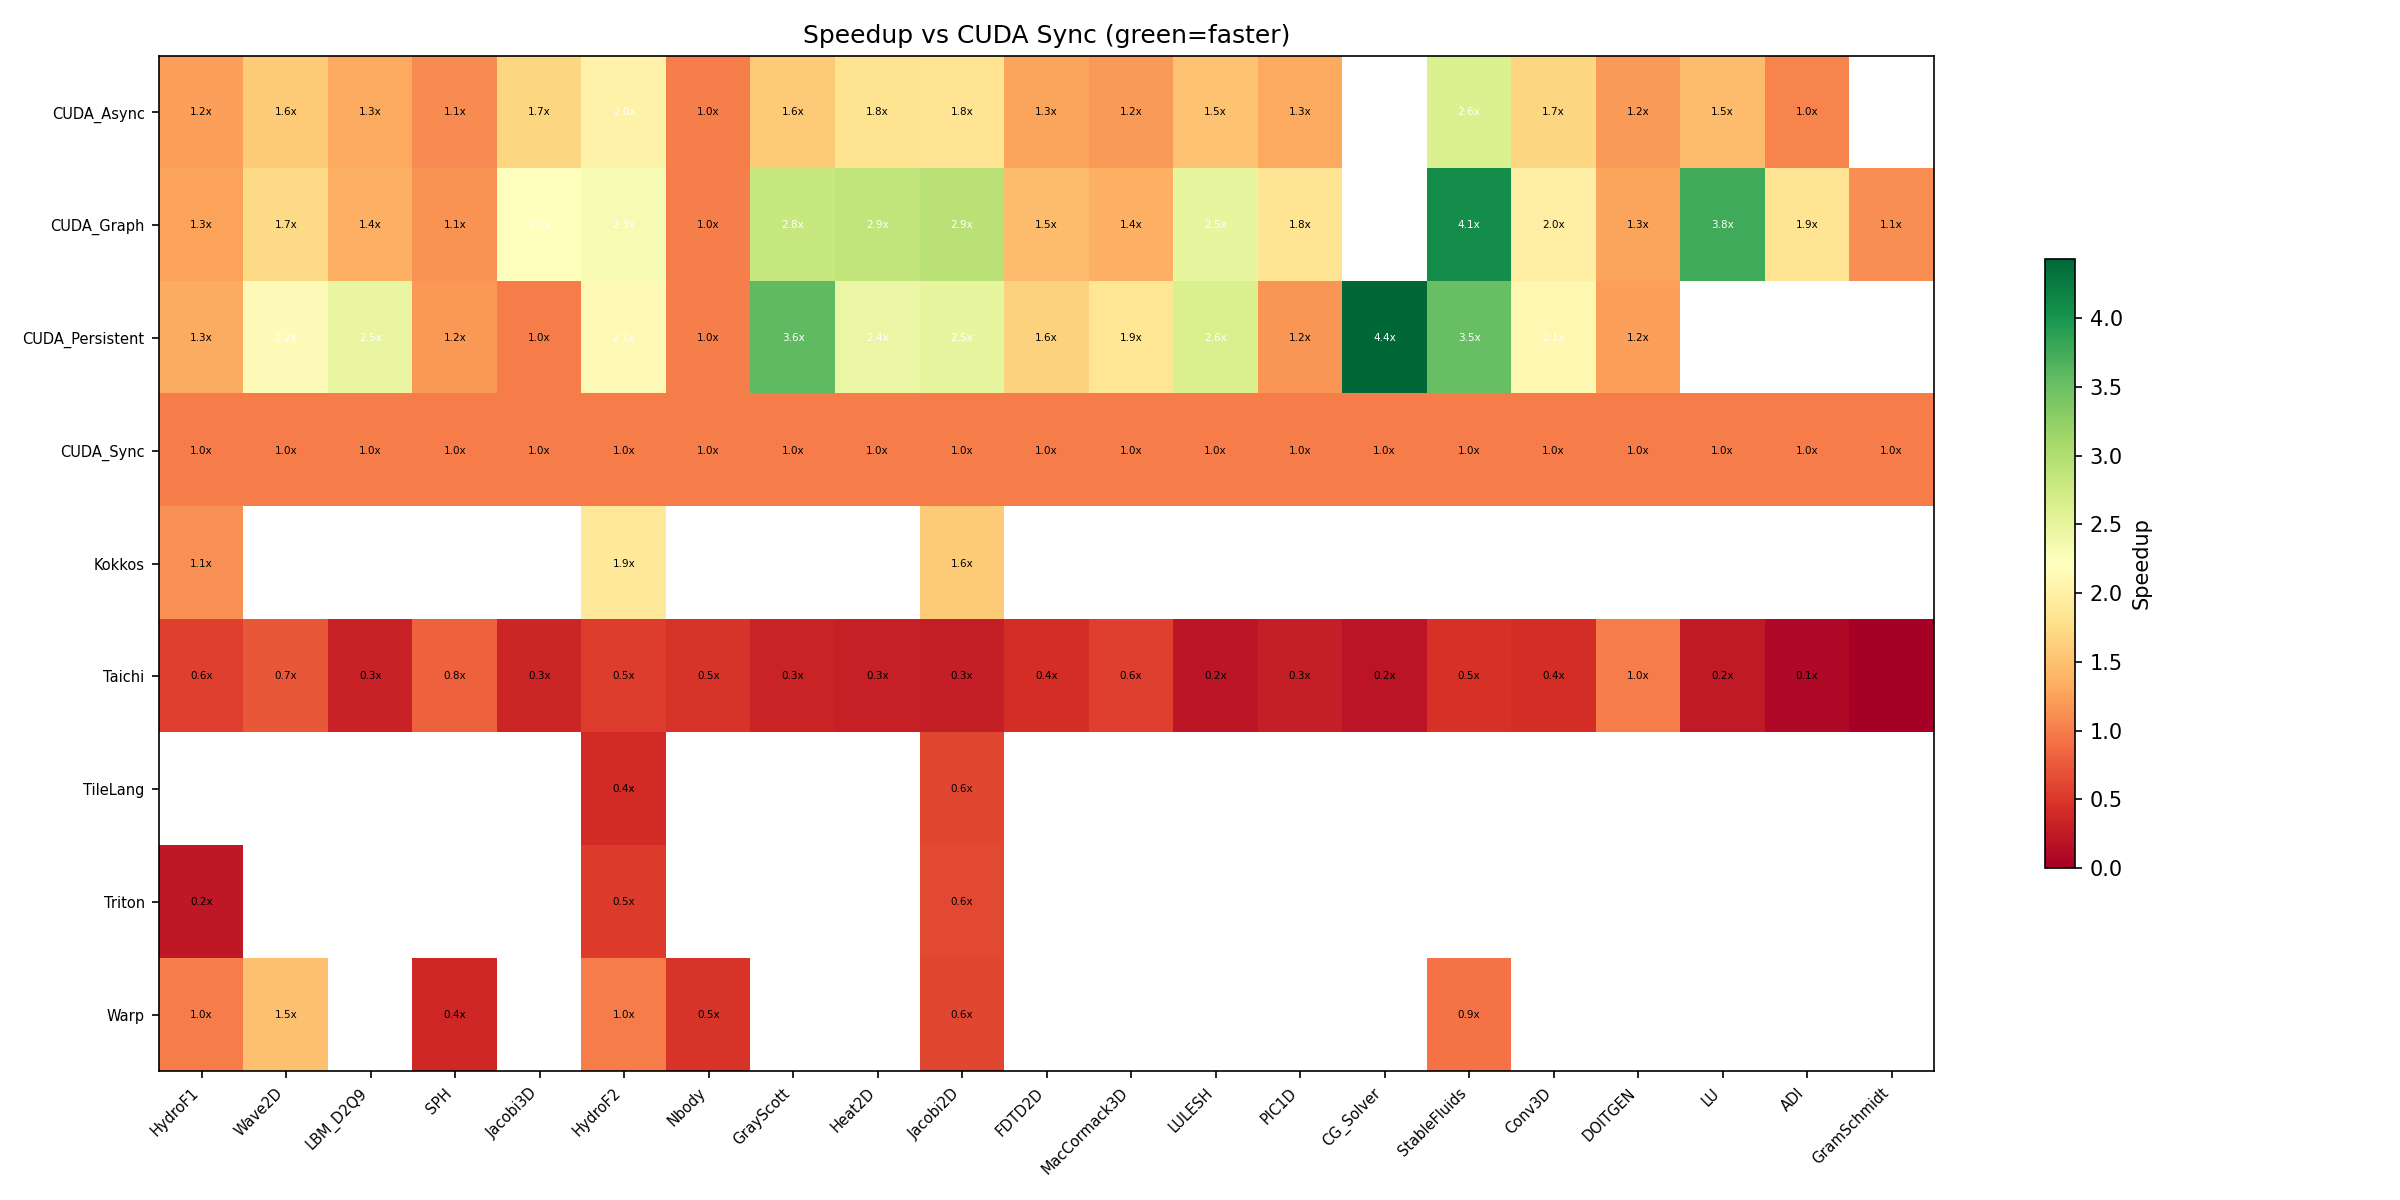
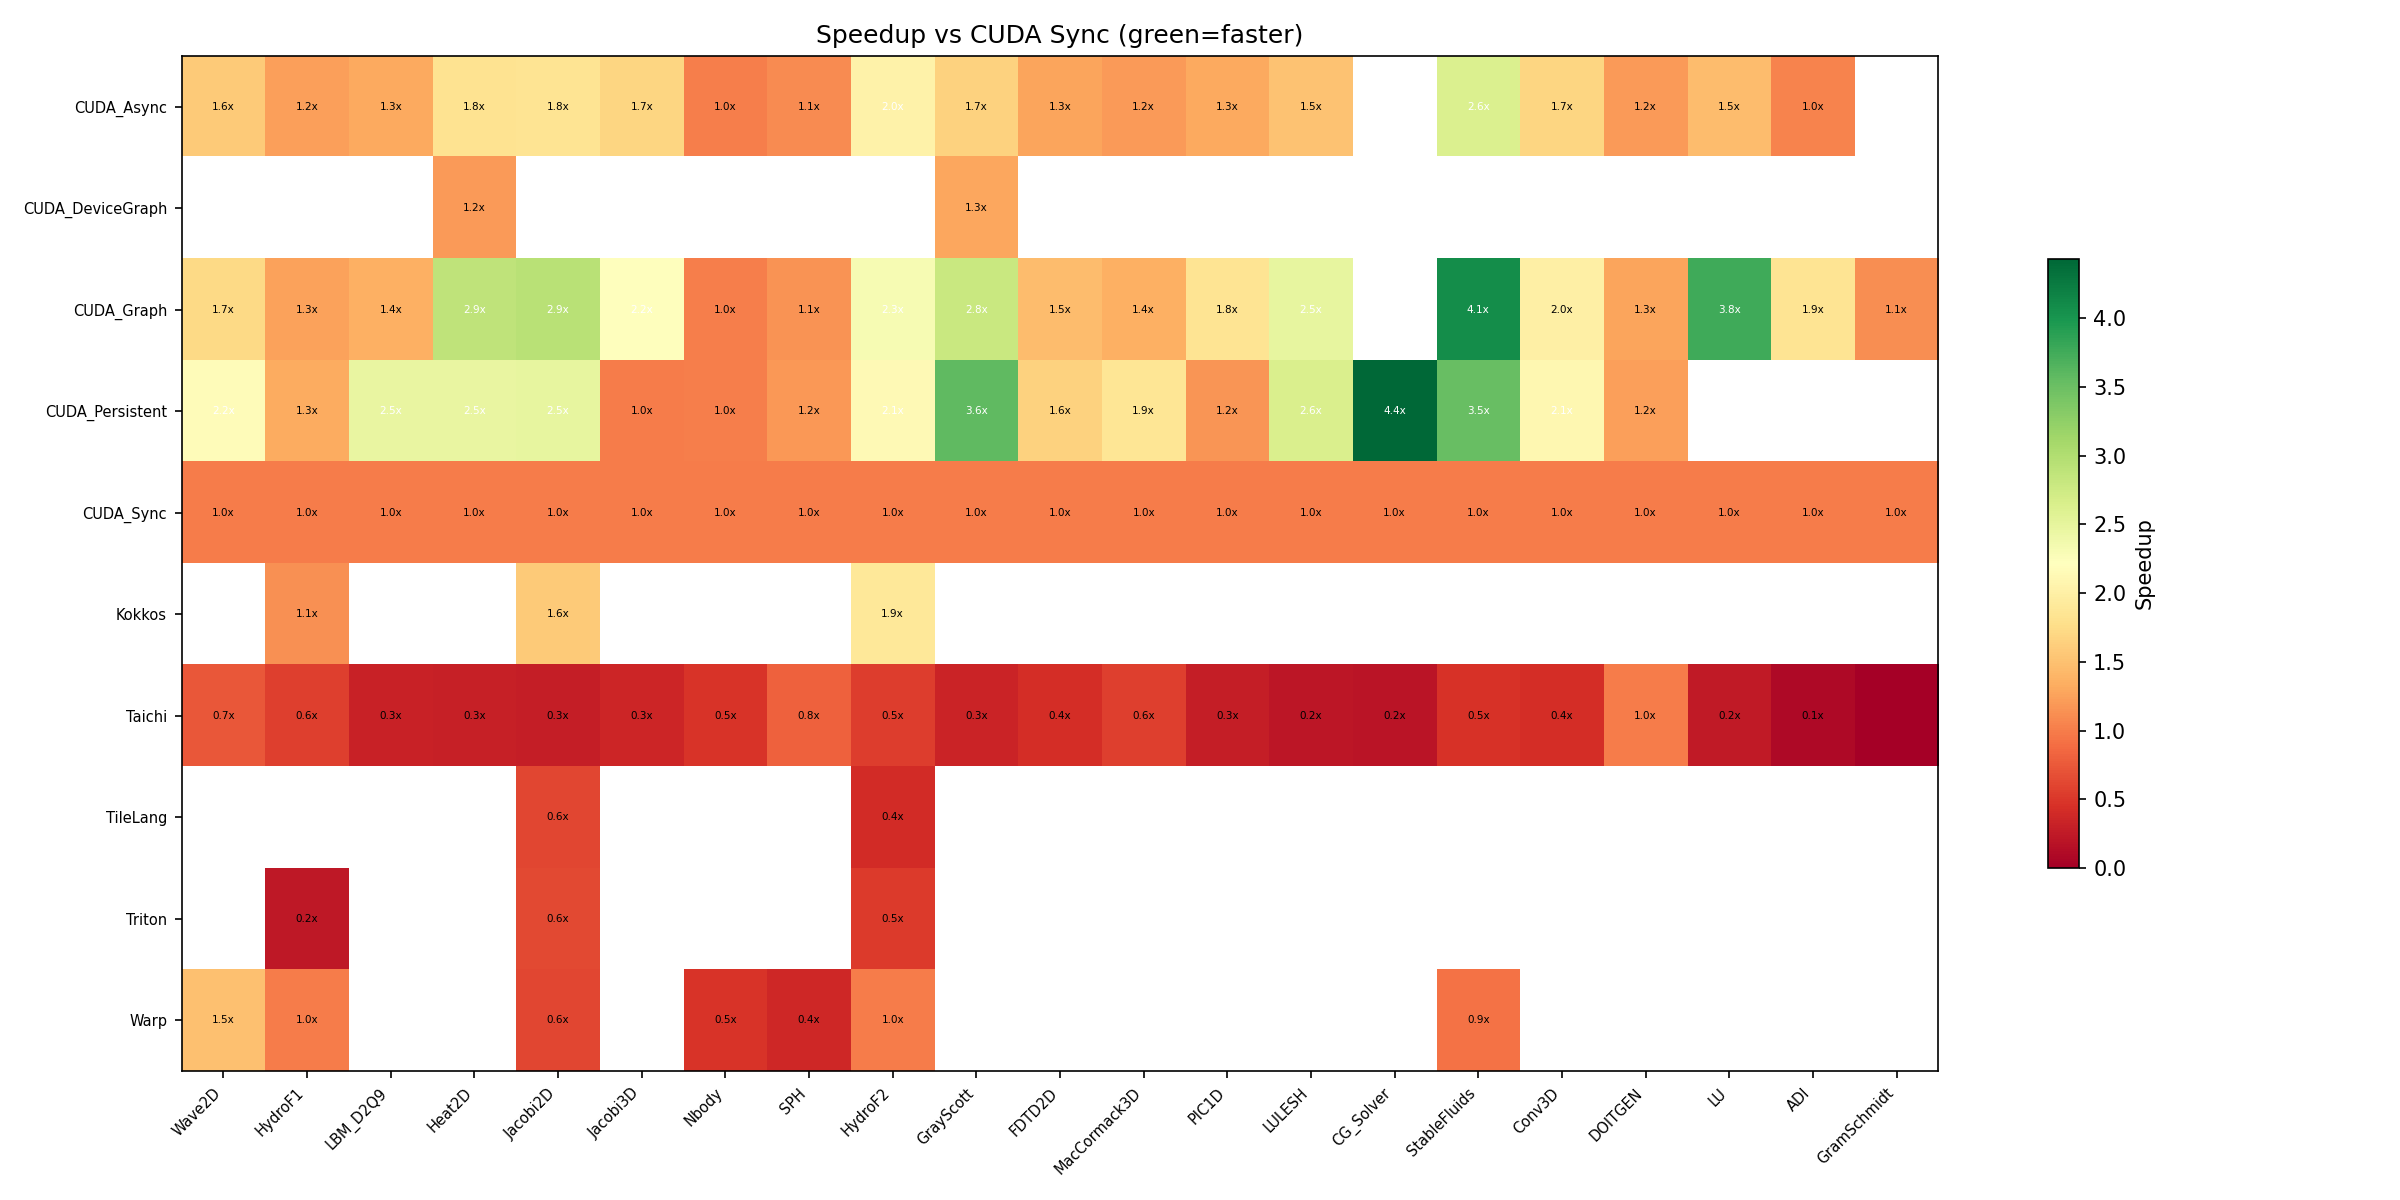
Add DeviceGraph as 5th strategy in overhead_solutions + run_matrix integration
Added device-side graph tail launch (cudaStreamGraphTailLaunch) as 5th
strategy in overhead_solutions.cu for Heat2D and GrayScott. Uses
__device__ global for graph exec handle, cudaGraphInstantiateWithFlags
with cudaGraphInstantiateFlagDeviceLaunch, and cudaGraphUpload.

Results (A100, all correct, all sizes):
  DeviceGraph is 0.45-0.93x of Host Graph (consistently slower)
  DeviceGraph is 1.0-1.3x of Sync (marginal improvement)

Updated run_matrix.py: normalize_strategy handles DeviceGraph,
parse_overhead_solutions parses 7-column format.

279 CSV rows (9 DeviceGraph for Heat2D/GrayScott). Plots regenerated.

diff --git a/benchmark/run_matrix.py b/benchmark/run_matrix.py
@@ -104,6 +104,8 @@ def normalize_strategy(name):
         return 'Sync'
     if 'async' in n:
         return 'Async'
+    if 'devgraph' in n or 'device graph' in n or 'devicegraph' in n:
+        return 'DeviceGraph'
     if 'graph' in n:
         return 'Graph'
     if 'persistent' in n or 'fused' in n:
@@ -156,6 +158,20 @@ def parse_overhead_solutions(output):
     heat_steps  = {"128":2000,"256":1000,"512":1000,"1024":500,"2048":200}
     gs_steps    = {"128":2000,"256":1000,"512":500,"1024":200}
     for line in output.split("\n"):
+        m = re.match(r'\s*(Heat2D|GrayScott)\s+(\d+)sq\s+([\d.]+)\s+([\d.]+)\s+([\d.]+)\s+([\d.N/A]+)\s+([\d.]+)', line)
+        if m:
+            kernel,sz,sync,asyn,graph,pers,devgraph = m.groups()
+            cid = "C3" if kernel=="Heat2D" else "C10"
+            smap = heat_steps if kernel=="Heat2D" else gs_steps
+            st = smap.get(sz, 100)
+            for name,val in [("Sync",sync),("Async",asyn),("Graph",graph),("Persistent",pers),("DeviceGraph",devgraph)]:
+                if val == "N/A":
+                    us = "N/A (grid exceeds cooperative launch limit)"
+                else:
+                    us = float(val)
+                rows.append((cid, f"{sz}x{sz}", name, us, st))
+            continue
+        # Fallback: old 4-strategy format
         m = re.match(r'\s*(Heat2D|GrayScott)\s+(\d+)sq\s+([\d.]+)\s+([\d.]+)\s+([\d.]+)\s+([\d.N/A]+)', line)
         if m:
             kernel,sz,sync,asyn,graph,pers = m.groups()
